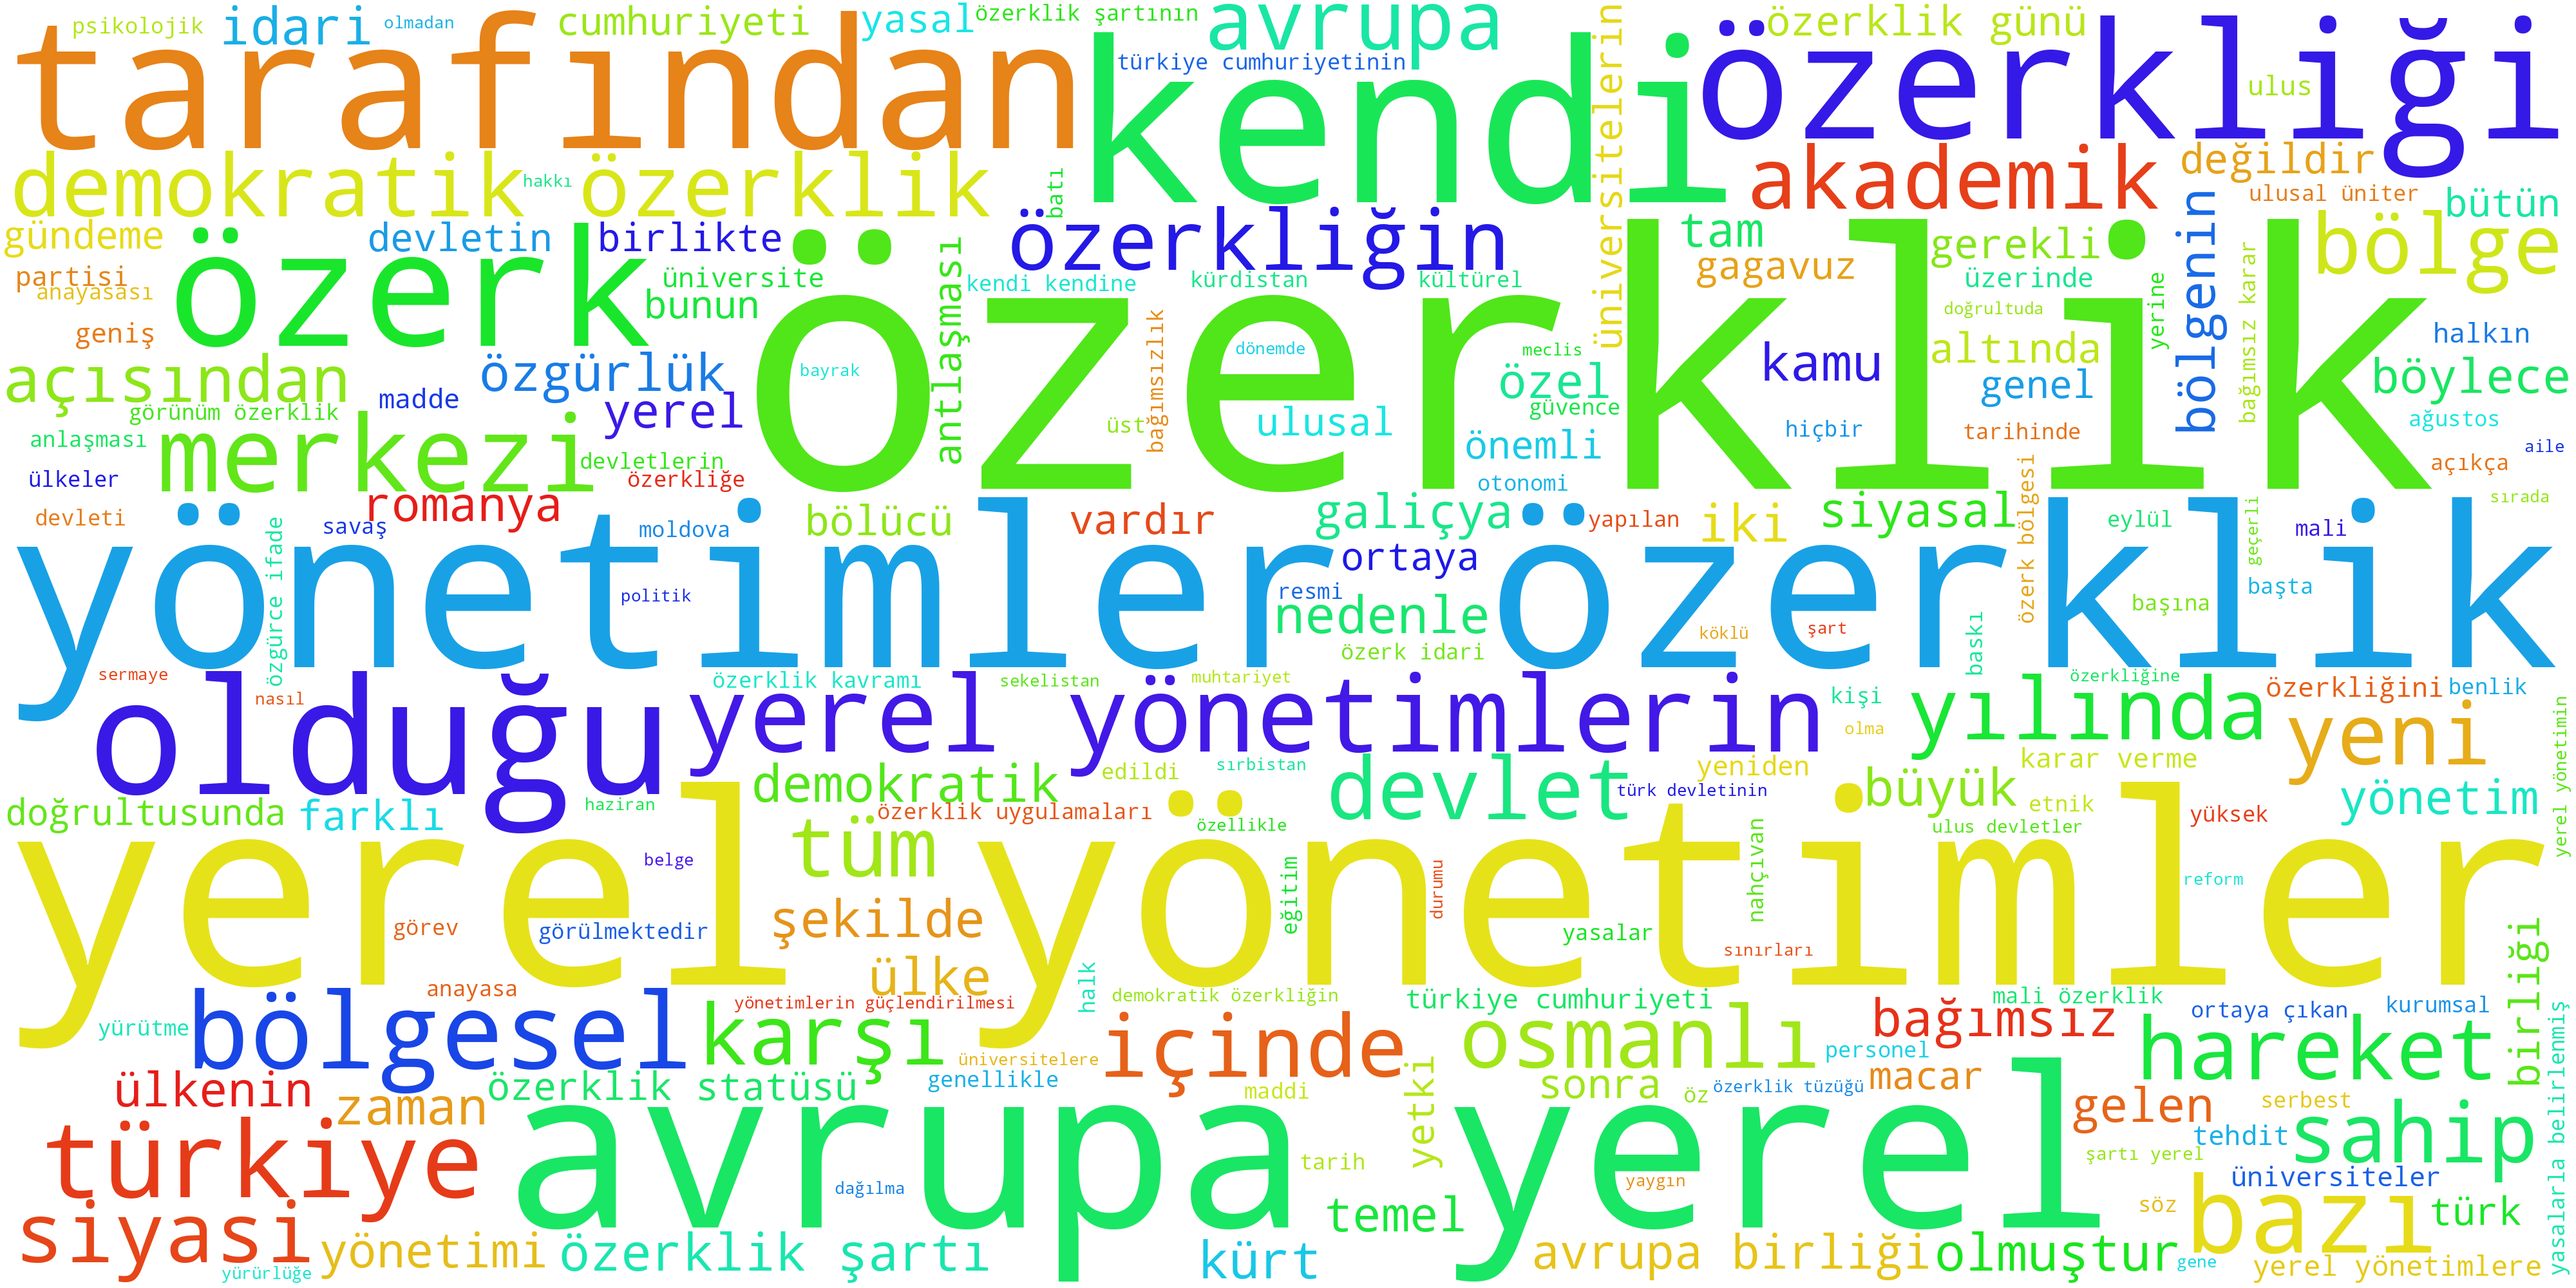
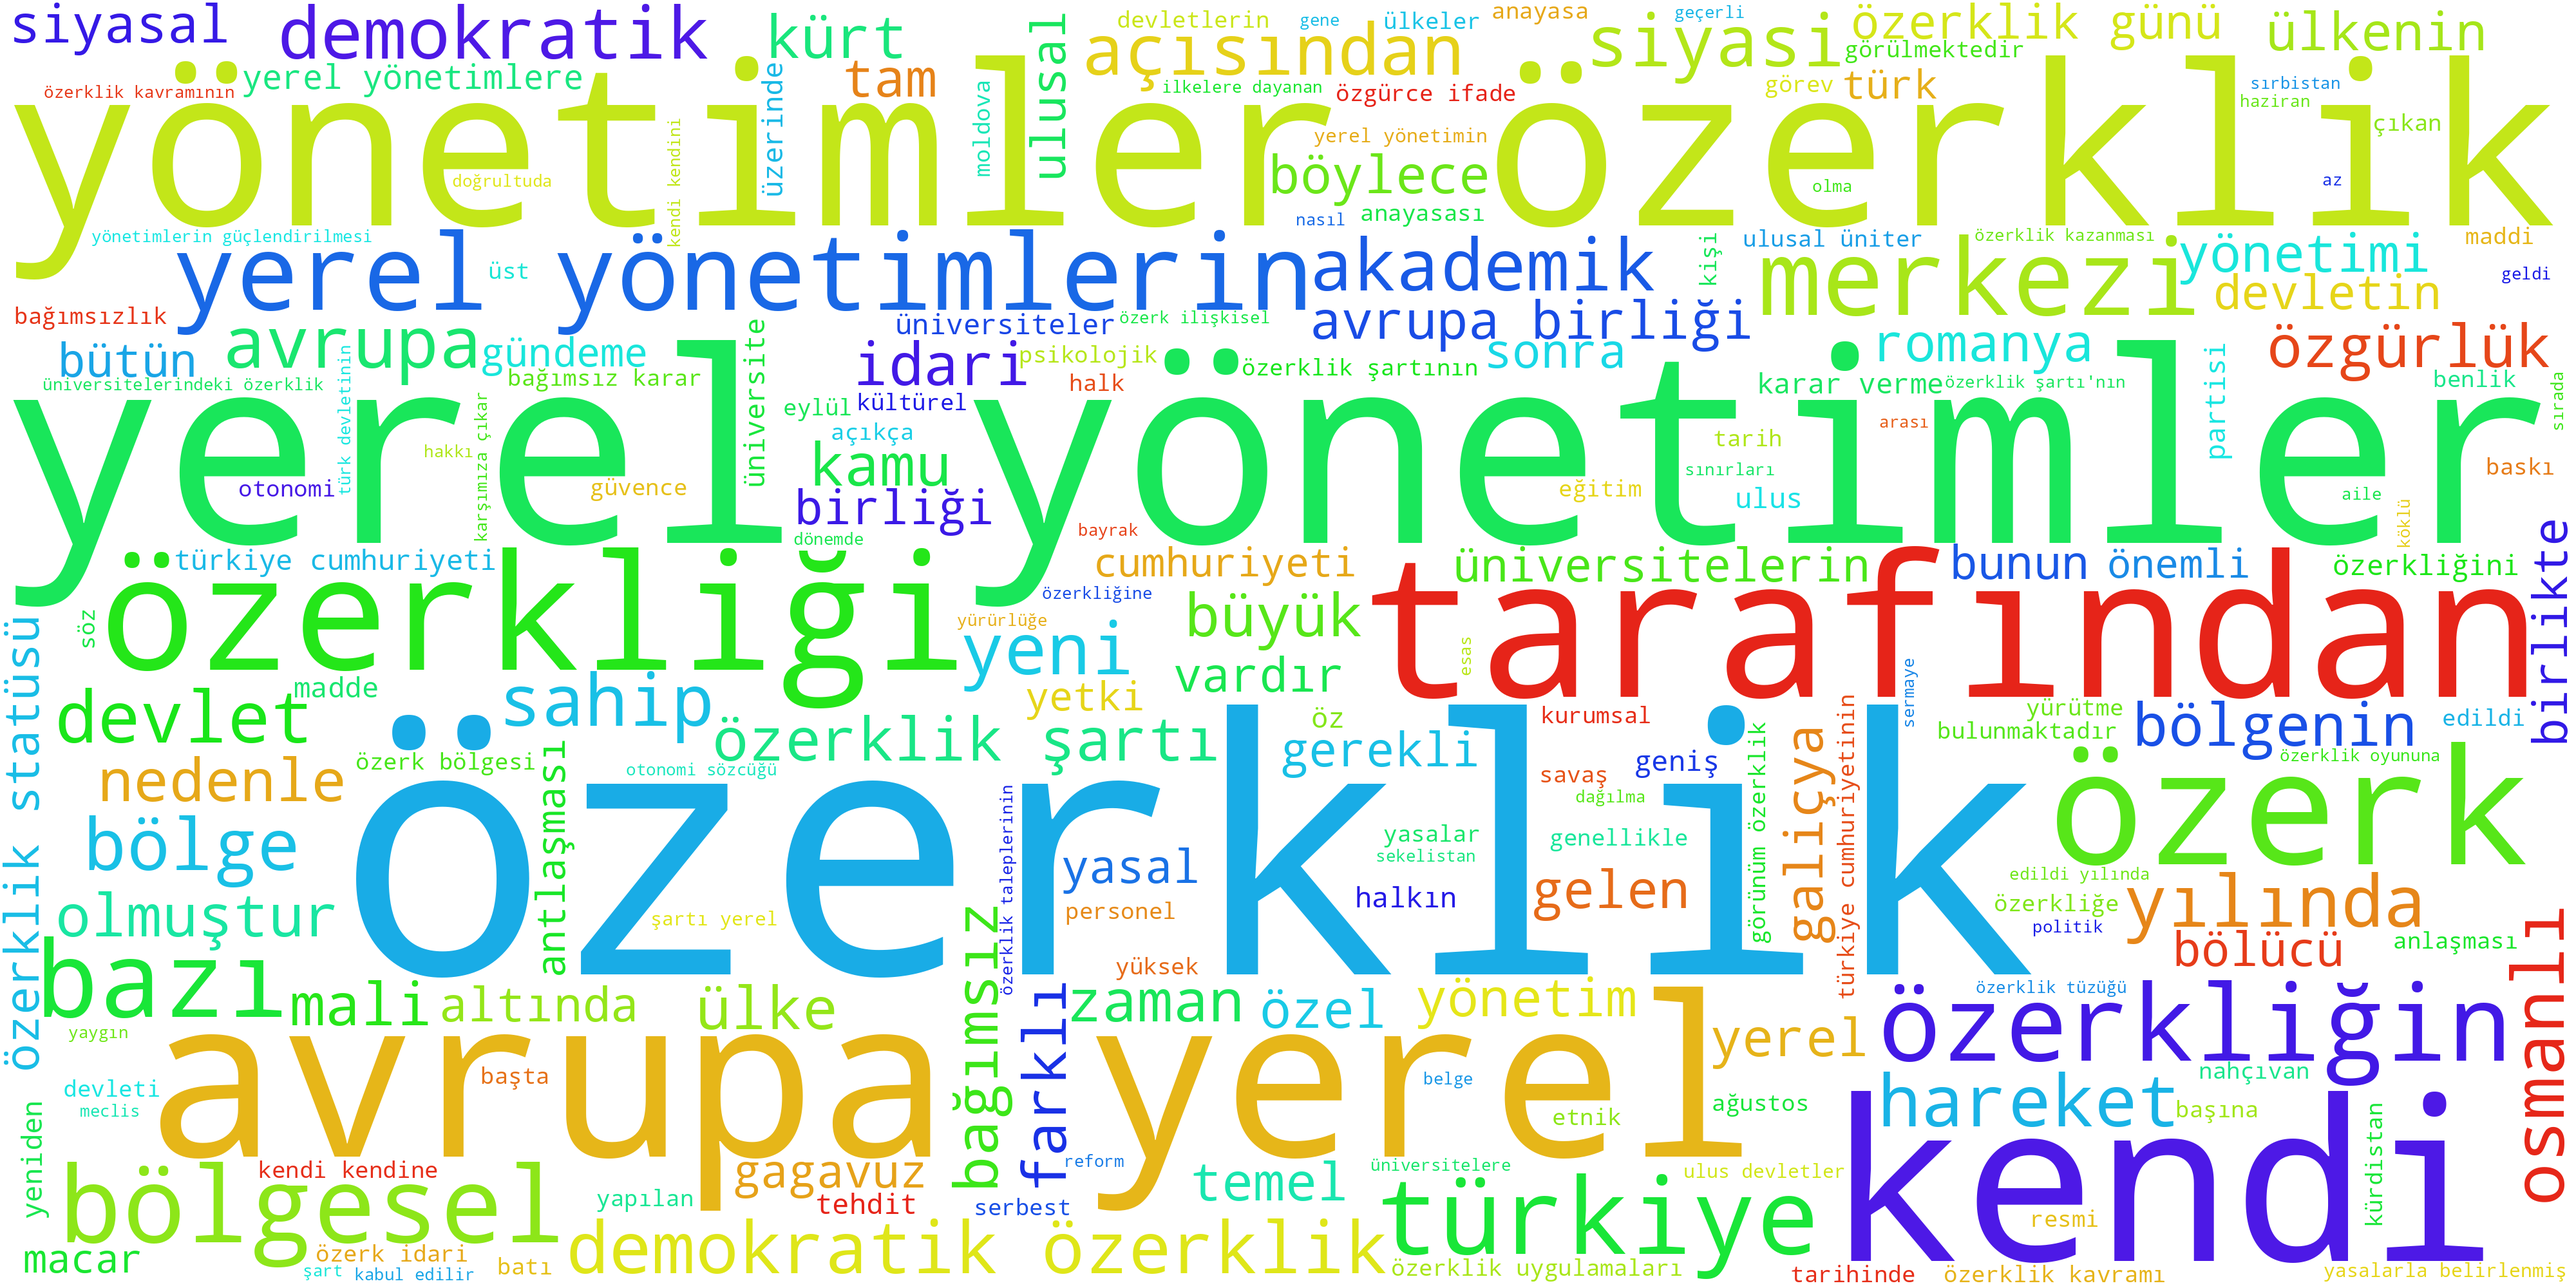
mis-à-jour de analyse-tr.html.

diff --git a/analyse-tr.html b/analyse-tr.html
@@ -422,12 +422,12 @@
     <!-- Navigation -->
     <nav>
         <div class="nav-container">
-            <a href="../index.html" class="nav-logo">Autonomie</a>
+            <a href="index.html" class="nav-logo">Autonomie</a>
             <div class="nav-links">
-                <a href="../index.html#projet">Projet</a>
-                <a href="../index.html#langues">Langues</a>
-                <a href="../index.html#equipe">Contributeurs</a>
-                <a href="../scripts.html">Scripts</a>
+                <a href="index.html#projet">Projet</a>
+                <a href="index.html#langues">Langues</a>
+                <a href="index.html#equipe">Contributeurs</a>
+                <a href="scripts.html">Scripts</a>
                 <button class="theme-toggle" id="themeToggle">🌙</button>
             </div>
         </div>
@@ -438,7 +438,7 @@
         <span class="lang-badge"><span class="flag flag-tr"></span>Türkçe</span>
         <h1>Analyse Turc</h1>
         <p>Étude comparative des deux sens du mot « autonomie » en turc : 
-           <strong>аўтаномія</strong> vs <strong>аўтаномнасьць</strong>.</p>
+           <strong>otonomi</strong> vs <strong>özerklik</strong>.</p>
     </header>
 
     <main>
@@ -446,15 +446,15 @@
         <section>
             <div class="stats-grid">
                 <div class="stat-card">
-                    <div class="value">XXX</div>
+                    <div class="value">100</div>
                     <div class="label">URLs analysées</div>
                 </div>
                 <div class="stat-card">
-                    <div class="value">XXX</div>
+                    <div class="value">151</div>
                     <div class="label">Occurrences sens 1</div>
                 </div>
                 <div class="stat-card">
-                    <div class="value">XXX</div>
+                    <div class="value">285</div>
                     <div class="label">Occurrences sens 2</div>
                 </div>
             </div>
@@ -472,15 +472,12 @@
                     <div class="cloud-card-header">
                         <span class="dot sens1"></span>
                         <h3>Sens 1</h3>
-                        <span class="word">аўтаномія</span>
+                        <span class="word">otonomi</span>
                     </div>
                     <div class="cloud-image">
-                        <!-- Remplacer par l'image réelle -->
                         <div class="cloud-placeholder">
-                            <div class="icon">🖼</div>
-                            <p>Remplacer par :<br><code>nuage-be-sens1.png</code></p>
+                            <img src="pals/nuage-tr-sens1.png" alt="Nuage de mots sens 1">
                         </div>
-                        <!-- <img src="../images/nuage-be-sens1.png" alt="Nuage de mots sens 1"> -->
                     </div>
                 </div>
 
@@ -488,15 +485,12 @@
                     <div class="cloud-card-header">
                         <span class="dot sens2"></span>
                         <h3>Sens 2</h3>
-                        <span class="word">аўтаномнасьць</span>
+                        <span class="word">özerklik</span>
                     </div>
                     <div class="cloud-image">
-                        <!-- Remplacer par l'image réelle -->
                         <div class="cloud-placeholder">
-                            <div class="icon">🖼</div>
-                            <p>Remplacer par :<br><code>nuage-be-sens2.png</code></p>
+                            <img src="pals/nuage-tr-sens2.png" alt="Nuage de mots sens 1">
                         </div>
-                        <!-- <img src="../images/nuage-be-sens2.png" alt="Nuage de mots sens 2"> -->
                     </div>
                 </div>
             </div>
@@ -542,34 +536,164 @@
                     <tbody>
                         <!-- Exemple de données - à remplacer par les vraies données -->
                         <tr>
-                            <td class="word">дзяржава</td>
-                            <td>45</td>
+                            <td class="word">yerel</td>
+                            <td>122</td>
+                            <td>2</td>
+                            <td class="negative">-19.22</td>
+                            <td>120</td>
+                            <td class="positive">+19.22</td>
+                        </tr>
+                        <tr>
+                            <td class="word">avrupa</td>
+                            <td>62</td>
+                            <td>0</td>
+                            <td class="negative">-11.43</td>
+                            <td>62</td>
+                            <td class="positive">+11.43</td>
+                        </tr>
+                        <tr>
+                            <td class="word">demokratik</td>
+                            <td>48</td>
+                            <td>1</td>
+                            <td class="negative">-7.44</td>
+                            <td>47</td>
+                            <td class="positive">+7.44</td>
+                        </tr>
+                        <tr>
+                            <td class="word">yönetimler</td>
+                            <td>47</td>
+                            <td>0</td>
+                            <td class="negative">-8.66</td>
+                            <td>47</td>
+                            <td class="positive">+8.66</td>
+                        </tr>
+                        <tr>
+                            <td class="word">bağımsız</td>
+                            <td>39</td>
+                            <td>20</td>
+                            <td class="positive">+1.90</td>
+                            <td>19</td>
+                            <td class="negative">-1.90</td>
+                        </tr>
+                        <tr>
+                            <td class="word">karar</td>
                             <td>38</td>
-                            <td class="positive">+4.23</td>
-                            <td>7</td>
-                            <td class="negative">-4.23</td>
+                            <td>26</td>
+                            <td class="positive">+4.79</td>
+                            <td>12</td>
+                            <td class="negative">-4.79</td>
                         </tr>
                         <tr>
-                            <td class="word">электрамабіль</td>
-                            <td>32</td>
+                            <td class="word">özerk</td>
+                            <td>37</td>
+                            <td>2</td>
+                            <td class="negative">-4.54</td>
+                            <td>35</td>
+                            <td class="positive">+4.54</td>
+                        </tr>
+                        <tr>
+                            <td class="word">otonom</td>
+                            <td>36</td>
+                            <td>31</td>
+                            <td class="positive">+9.68</td>
                             <td>5</td>
-                            <td class="negative">-3.87</td>
-                            <td>27</td>
-                            <td class="positive">+3.87</td>
+                            <td class="negative">-9.68</td>
                         </tr>
                         <tr>
-                            <td class="word">нацыянальны</td>
-                            <td>28</td>
+                            <td class="word">dil</td>
+                            <td>30</td>
+                            <td>25</td>
+                            <td class="positive">+7.33</td>
+                            <td>5</td>
+                            <td class="negative">-7.33</td>
+                        </tr>
+                        <tr>
+                            <td class="word">türkiye</td>
+                            <td>25</td>
+                            <td>2</td>
+                            <td class="negative">-2.68</td>
+                            <td>23</td>
+                            <td class="positive">+2.68</td>
+                        </tr>
+                        <tr>
+                            <td class="word">bölgesel</td>
                             <td>24</td>
-                            <td class="positive">+3.54</td>
-                            <td>4</td>
-                            <td class="negative">-3.54</td>
+                            <td>1</td>
+                            <td class="negative">-3.31</td>
+                            <td>23</td>
+                            <td class="positive">+3.31</td>
                         </tr>
-                        <!-- Ajouter plus de lignes -->
                         <tr>
-                            <td colspan="6" style="text-align: center; color: var(--text-muted); font-style: italic;">
-                                Remplacer par les données de partition-be.tsv
-                            </td>
+                            <td class="word">öğrenme</td>
+                            <td>23</td>
+                            <td>23</td>
+                            <td class="positive">+10.64</td>
+                            <td>0</td>
+                            <td class="negative">-10.64</td>
+                        </tr>
+                        <tr>
+                            <td class="word">ifade</td>
+                            <td>23</td>
+                            <td>9</td>
+                            <td class="positive">+0.82</td>
+                            <td>14</td>
+                            <td class="negative">-0.82</td>
+                        </tr>
+                        <tr>
+                            <td class="word">hareket</td>
+                            <td>23</td>
+                            <td>7</td>
+                            <td class="negative">-0.79</td>
+                            <td>16</td>
+                            <td class="positive">+0.79</td>
+                        </tr>
+                        <tr>
+                            <td class="word">idari</td>
+                            <td>23</td>
+                            <td>0</td>
+                            <td class="negative">-4.23</td>
+                            <td>23</td>
+                            <td class="positive">+4.23</td>
+                        </tr>
+                        <tr>
+                            <td class="word">kendini</td>
+                            <td>22</td>
+                            <td>15</td>
+                            <td class="positive">+2.99</td>
+                            <td>7</td>
+                            <td class="negative">-2.99</td>
+                        </tr>            
+                        <tr>
+                            <td class="word">yönetim</td>
+                            <td>22</td>
+                            <td>0</td>
+                            <td class="negative">-4.05</td>
+                            <td>22</td>
+                            <td class="negative">+4.05</td>
+                        </tr>            
+                        <tr>
+                            <td class="word">birliği</td>
+                            <td>21</td>
+                            <td>1</td>
+                            <td class="negative">-2.82</td>
+                            <td>20</td>
+                            <td class="positive">+2.82</td>
+                        </tr>  
+                        <tr>
+                            <td class="word">kelimeler</td>
+                            <td>21</td>
+                            <td>21</td>
+                            <td class="positive">+9.71</td>
+                            <td>0</td>
+                            <td class="negative">-9.71</td>
+                        </tr>  
+                        <tr>
+                            <td class="word">tam</td>
+                            <td>20</td>
+                            <td>6</td>
+                            <td class="negative">-0.76</td>
+                            <td>14</td>
+                            <td class="positive">+0.76</td>
                         </tr>
                     </tbody>
                 </table>
@@ -578,14 +702,13 @@
 
         <!-- Actions -->
         <div class="action-links">
-            <a href="../tableaux/tableau-be.html" class="btn btn-primary">📋 Voir le tableau complet</a>
-            <a href="../concordances/be/" class="btn btn-secondary">📖 Concordances</a>
-            <a href="../index.html#langues" class="btn btn-secondary">← Retour aux langues</a>
+            <a href="tableaux/tableau-tr.html" class="btn btn-primary">📋 Voir le tableau complet</a>
+            <a href="index.html#langues" class="btn btn-secondary">← Retour aux langues</a>
         </div>
     </main>
 
     <footer>
-        <p>Projet PPE1 — M1 TAL — Université Sorbonne Nouvelle — 2024-2025</p>
+        <p>Projet PPE1 — M1 TAL — Université Sorbonne Nouvelle — 2025-2026</p>
     </footer>
 
     <script>
@@ -614,15 +737,15 @@
                 labels: ['URL 1', 'URL 2', 'URL 3', 'URL 4', 'URL 5', 'URL 6', 'URL 7', 'URL 8', 'URL 9', 'URL 10'],
                 datasets: [
                     {
-                        label: 'аўтаномія (sens 1)',
-                        data: [12, 8, 15, 5, 10, 7, 14, 3, 9, 11],
+                        label: 'otonomi (sens 1)',
+                        data: [6, 1, 2, 4, 4, 5, 1, 1, 1, 1],
                         backgroundColor: 'rgba(102, 126, 234, 0.7)',
                         borderColor: 'rgba(102, 126, 234, 1)',
                         borderWidth: 1
                     },
                     {
-                        label: 'аўтаномнасьць (sens 2)',
-                        data: [3, 6, 2, 12, 4, 9, 1, 15, 7, 5],
+                        label: 'özerklik (sens 2)',
+                        data: [1, 1, 3, 0, 0, 0, 0, 1, 0, 0],
                         backgroundColor: 'rgba(240, 147, 251, 0.7)',
                         borderColor: 'rgba(240, 147, 251, 1)',
                         borderWidth: 1
